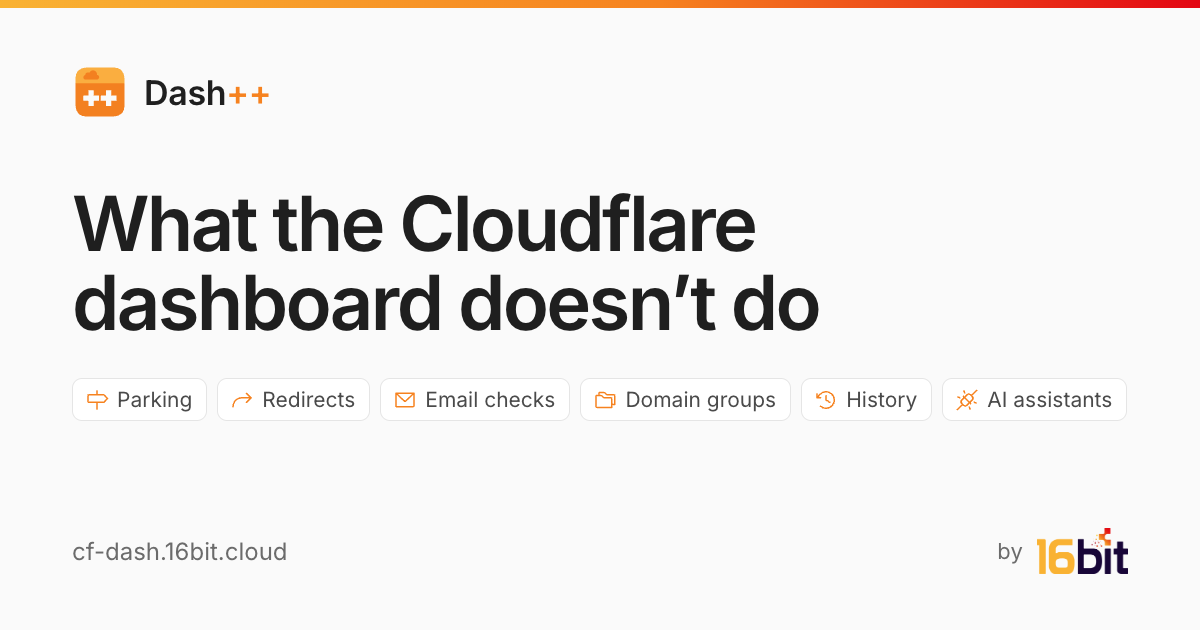
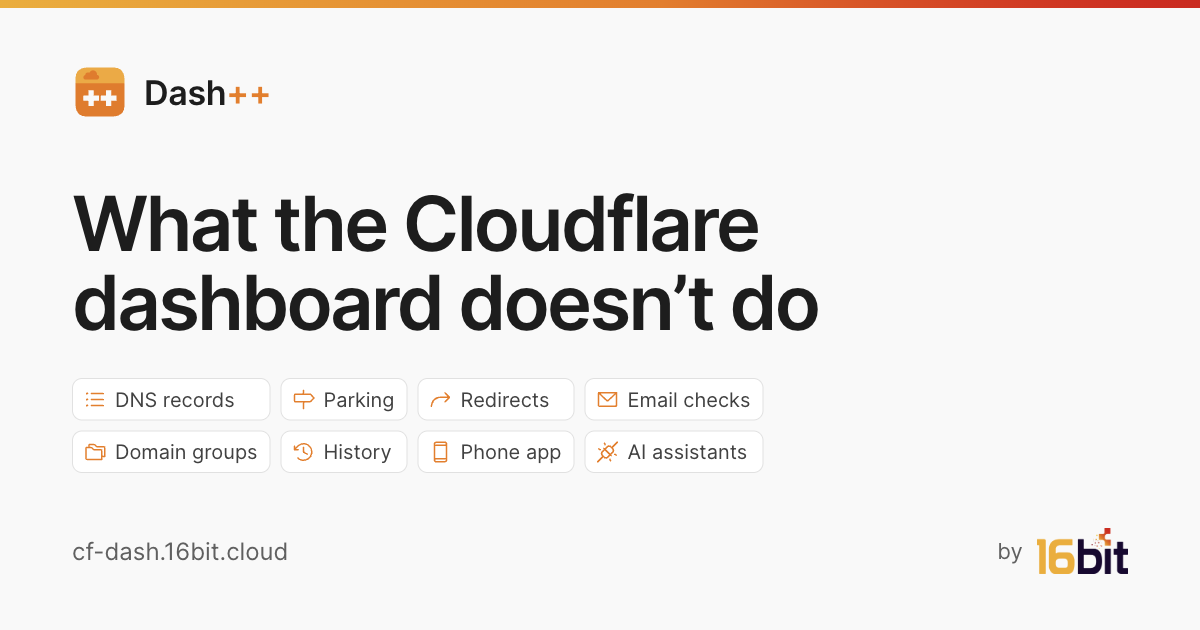
Landing: DNS records, phone app, group invites

diff --git a/src/app/i18n/it.ts b/src/app/i18n/it.ts
@@ -125,7 +125,7 @@ export const it: Dict = {
     signIn: "Accedi",
     eyebrow: "Per i domini su Cloudflare",
     title: "Quello che la dashboard di Cloudflare non fa",
-    intro: "Parcheggia domini, imposta redirect, controlla i record della posta e scopri chi ha cambiato cosa. Ognuno entra con il suo account Cloudflare e vede solo ciò che vedrebbe nella dashboard.",
+    intro: "Modifica i record DNS, parcheggia domini, imposta redirect, controlla la posta e scopri chi ha cambiato cosa, anche dal telefono. Ognuno entra con il suo account Cloudflare e vede solo ciò che vedrebbe nella dashboard.",
     cta: "Accedi con Cloudflare",
     soon: "In arrivo",
     installSoon: "Dash++ sul tuo account Cloudflare. Scrivici se ti interessa.",
@@ -142,16 +142,18 @@ export const it: Dict = {
     },
     featuresTitle: "Tutto quello che serve a un dominio, in un posto solo",
     features: [
+      { title: "Record DNS", text: "Tutti i tipi di record, modifiche a più record insieme, importazione ed esportazione e DNSSEC. Prima di salvare vedi cosa cambia." },
       { title: "Parcheggio", text: "Una pagina pulita per i domini senza sito, con il tuo marchio o anonima, servita direttamente da Cloudflare." },
       { title: "Redirect", text: "Manda un dominio a un altro indirizzo in pochi clic, con o senza il percorso." },
       { title: "Posta", text: "MX, SPF, DKIM e DMARC controllati rispetto al provider in uso, con la correzione pronta da applicare." },
-      { title: "Gruppi di domini", text: "Raggruppa i domini per dare a ciascuno accesso solo a quelli che gli servono." },
+      { title: "Gruppi di domini", text: "Raggruppa i domini e invita chi deve occuparsene: vedrà solo quelli." },
       { title: "Cronologia", text: "Ogni modifica ai record, da Dash++ o da qualsiasi altra parte, con chi l'ha fatta e quando." },
+      { title: "Sul telefono", text: "Installa Dash++ sulla schermata Home di iPhone e Android e usalo come un'app." },
       { title: "Assistenti AI", text: "Collega Claude o un altro assistente e gestisci i domini chiedendo, con gli stessi permessi." },
     ],
     trustTitle: "I tuoi permessi, niente di più",
     trust: [
-      { title: "Accesso con Cloudflare", text: "Dash++ non vede mai la tua password e agisce solo con i permessi che il tuo utente ha già." },
+      { title: "Accesso con Cloudflare", text: "Dash++ non vede mai la tua password e agisce solo con i permessi che il tuo utente ha già. Chi gestisce solo alcuni domini vede solo quelli." },
       { title: "Cloudflare resta la fonte", text: "Ogni pagina legge i record e le regole reali, quindi è sempre aggiornata, anche con le modifiche fatte altrove." },
       { title: "Ogni modifica registrata", text: "Ogni azione compare nell'attività dell'account con il nome di chi l'ha fatta." },
     ],

diff --git a/src/app/i18n/en.ts b/src/app/i18n/en.ts
@@ -125,7 +125,7 @@ export const en = {
     signIn: "Sign in",
     eyebrow: "For domains on Cloudflare",
     title: "What the Cloudflare dashboard doesn't do",
-    intro: "Park domains, set up redirects, check email records and see who changed what. Everyone signs in with their own Cloudflare account and sees only what they would see in the dashboard.",
+    intro: "Edit DNS records, park domains, set up redirects, check email and see who changed what, from your phone too. Everyone signs in with their own Cloudflare account and sees only what they would see in the dashboard.",
     cta: "Sign in with Cloudflare",
     soon: "Coming soon",
     installSoon: "Dash++ on your own Cloudflare account. Write to us if you're interested.",
@@ -142,16 +142,18 @@ export const en = {
     },
     featuresTitle: "Everything a domain needs, in one place",
     features: [
+      { title: "DNS records", text: "Every record type, changes to many records at once, import and export, and DNSSEC. You see what changes before you save." },
       { title: "Parking", text: "A clean page for domains without a site, branded or anonymous, served straight from Cloudflare." },
       { title: "Redirects", text: "Send a domain to another address in a few clicks, with or without the path." },
       { title: "Email", text: "MX, SPF, DKIM and DMARC checked against the provider in use, with the fix ready to apply." },
-      { title: "Domain groups", text: "Group domains to give people access to just the ones they need." },
+      { title: "Domain groups", text: "Group domains and invite the people who look after them: they'll see only those." },
       { title: "History", text: "Every change to records, from Dash++ or from anywhere else, with who made it and when." },
+      { title: "On your phone", text: "Install Dash++ on the Home Screen of iPhone and Android and use it like an app." },
       { title: "AI assistants", text: "Connect Claude or another assistant and manage domains by asking, with the same permissions." },
     ],
     trustTitle: "Your permissions, nothing more",
     trust: [
-      { title: "Sign in with Cloudflare", text: "Dash++ never sees your password and acts only with the permissions your user already has." },
+      { title: "Sign in with Cloudflare", text: "Dash++ never sees your password and acts only with the permissions your user already has. People who manage only some domains see only those." },
       { title: "Cloudflare stays the source", text: "Every page reads the real records and rules, so it's always up to date, even with changes made elsewhere." },
       { title: "Every change on record", text: "Each action appears in the account activity with the name of who made it." },
     ],

diff --git a/index.html b/index.html
@@ -4,7 +4,7 @@
     <meta charset="utf-8" />
     <meta name="viewport" content="width=device-width, initial-scale=1" />
     <title>Dash++ · What the Cloudflare dashboard doesn't do</title>
-    <meta name="description" content="Parking, redirects, email checks, domain groups and a history of changes for your domains on Cloudflare. Sign in with your Cloudflare account." />
+    <meta name="description" content="DNS records, parking, redirects, email checks, domain groups and a history of changes for your domains on Cloudflare, on desktop and phone. Sign in with your Cloudflare account." />
     <link rel="icon" href="/logo.svg" type="image/svg+xml" />
     <link rel="icon" href="/logo-512.png" type="image/png" sizes="512x512" />
     <!-- Installed as an app: name, icons and colours on the home screen of iPhone and Android. -->
@@ -20,13 +20,13 @@
     <meta property="og:type" content="website" />
     <meta property="og:site_name" content="Dash++" />
     <meta property="og:title" content="Dash++ · What the Cloudflare dashboard doesn't do" />
-    <meta property="og:description" content="Parking, redirects, email checks, domain groups and a history of changes for your domains on Cloudflare. By 16bit." />
+    <meta property="og:description" content="DNS records, parking, redirects, email checks, domain groups and a history of changes for your domains on Cloudflare, on desktop and phone. By 16bit." />
     <meta property="og:url" content="%SITE_URL%/" />
     <meta property="og:image" content="%SITE_URL%/og.png" />
     <meta property="og:image:type" content="image/png" />
     <meta property="og:image:width" content="1200" />
     <meta property="og:image:height" content="630" />
-    <meta property="og:image:alt" content="Dash++: what the Cloudflare dashboard doesn't do. Parking, redirects, email checks, domain groups, history, AI assistants. By 16bit." />
+    <meta property="og:image:alt" content="Dash++: what the Cloudflare dashboard doesn't do. DNS records, parking, redirects, email checks, domain groups, history, phone app, AI assistants. By 16bit." />
     <meta property="og:locale" content="en_US" />
     <meta property="og:locale:alternate" content="it_IT" />
     <meta name="twitter:card" content="summary_large_image" />

diff --git a/src/app/pages/Landing.tsx b/src/app/pages/Landing.tsx
@@ -12,10 +12,12 @@ import {
   SignpostIcon,
   WarningCircleIcon,
   CloudCheckIcon,
+  DeviceMobileIcon,
+  ListBulletsIcon,
 } from "@phosphor-icons/react";
 import { LANGS, setLang, useLang, useT, type Lang } from "../i18n";
 
-const FEATURE_ICONS: Icon[] = [SignpostIcon, ArrowBendUpRightIcon, EnvelopeSimpleIcon, FoldersIcon, ClockCounterClockwiseIcon, PlugsConnectedIcon];
+const FEATURE_ICONS: Icon[] = [ListBulletsIcon, SignpostIcon, ArrowBendUpRightIcon, EnvelopeSimpleIcon, FoldersIcon, ClockCounterClockwiseIcon, DeviceMobileIcon, PlugsConnectedIcon];
 const TRUST_ICONS: Icon[] = [LockKeyIcon, CloudCheckIcon, ShieldCheckIcon];
 
 /** What people who aren't signed in see at the home page: what Dash++ does and how to get in. */
@@ -79,7 +81,7 @@ export function Landing() {
         <section className="border-t border-kumo-hairline bg-kumo-base">
           <div className="mx-auto max-w-6xl px-6 py-16 md:py-20">
             <h2 className="text-2xl font-semibold tracking-tight text-kumo-default">{l.featuresTitle}</h2>
-            <div className="mt-10 grid gap-x-10 gap-y-10 sm:grid-cols-2 lg:grid-cols-3">
+            <div className="mt-10 grid gap-x-10 gap-y-10 sm:grid-cols-2 lg:grid-cols-4">
               {l.features.map((f, i) => {
                 const I = FEATURE_ICONS[i];
                 return (
